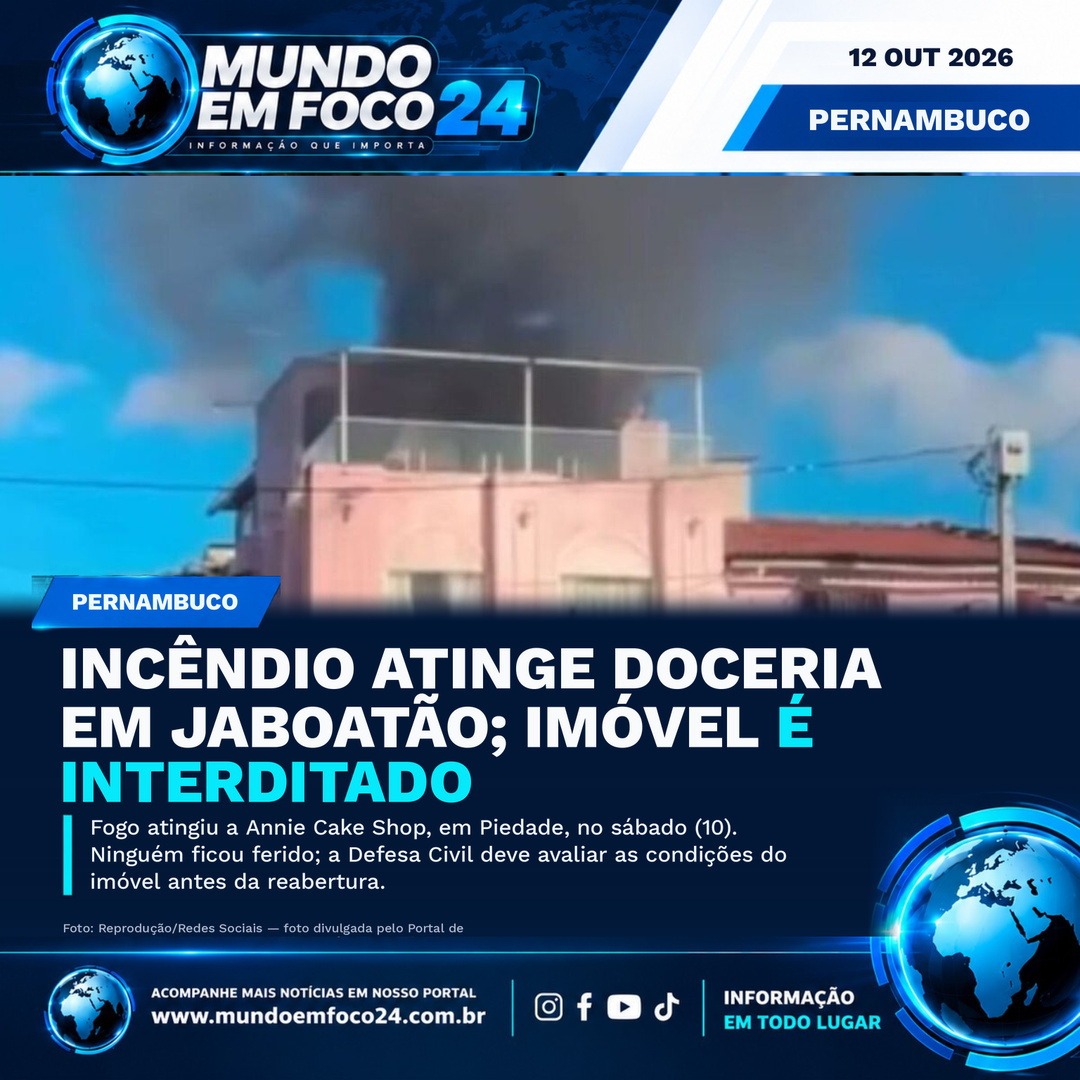
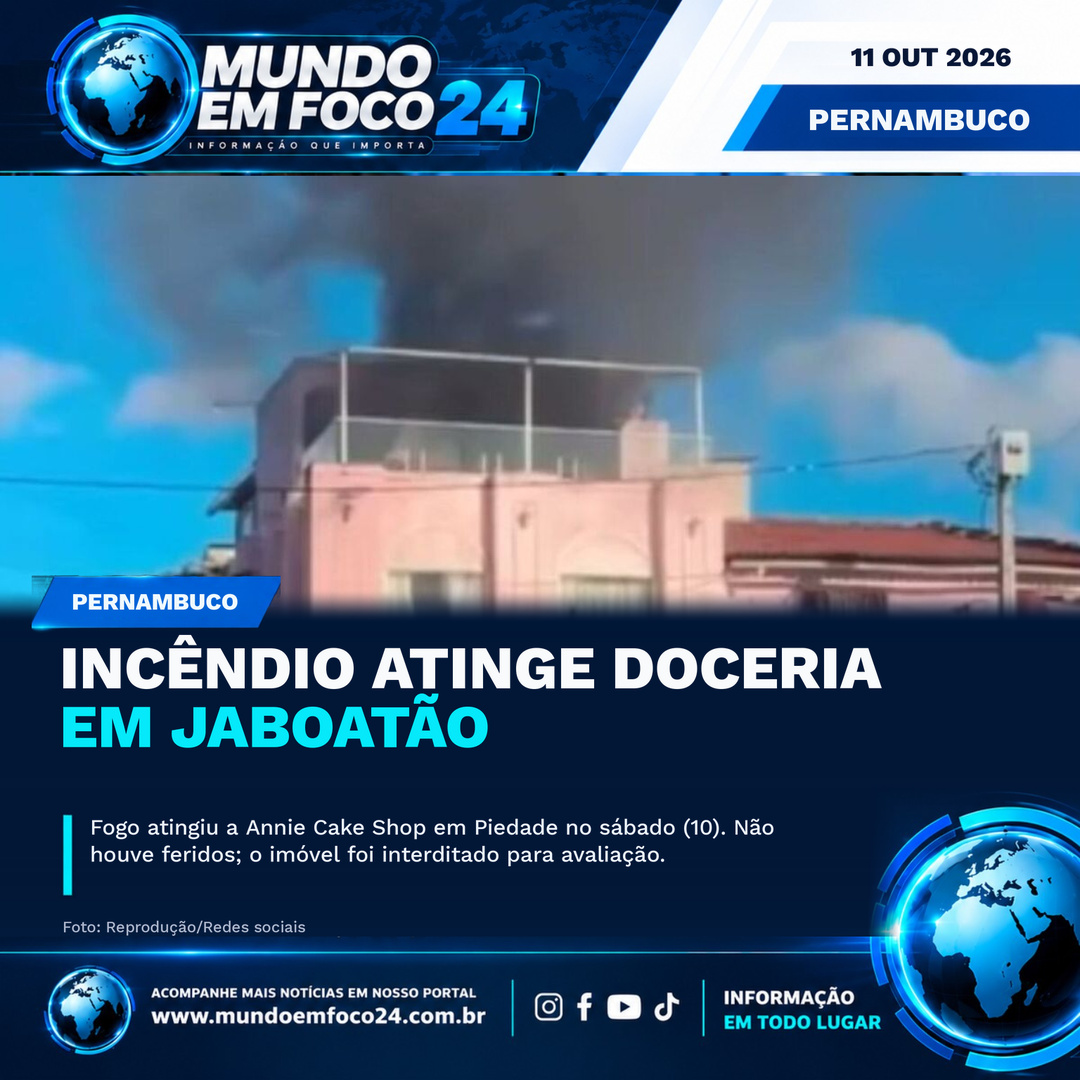
chore: publish Mundo em Foco 24 portal and branded art

Changed region(s): [[0.0611, 0.6417, 0.7639, 0.825], [0.0611, 0.8556, 0.4278, 0.8861], [0.7944, 0.0306, 0.9472, 0.0611]]

diff --git a/share/uniao-reconhece-emergencia-36-municipios-amazonas-12-10-2026.html b/share/uniao-reconhece-emergencia-36-municipios-amazonas-12-10-2026.html
@@ -1,0 +1,1 @@
+<!doctype html><html lang="pt-BR"><head><meta charset="utf-8"><meta name="viewport" content="width=device-width,initial-scale=1"><title>União reconhece emergência no Amazonas | Mundo em Foco 24</title><meta name="description" content="Reconhecimento abrange 36 municípios e permite solicitar recursos federais para enfrentar incêndios florestais."><link rel="canonical" href="https://filipemelo1994-del.github.io/Mundo-em-foco-24-m-dia-/noticia.html?id=uniao-reconhece-emergencia-36-municipios-amazonas-12-10-2026"><meta property="og:type" content="article"><meta property="og:site_name" content="Mundo em Foco 24"><meta property="og:title" content="União reconhece emergência no Amazonas"><meta property="og:description" content="Reconhecimento abrange 36 municípios e permite solicitar recursos federais para enfrentar incêndios florestais."><meta property="og:image" content="https://raw.githubusercontent.com/filipemelo1994-del/Mundo-em-foco-24-m-dia-/main/public/news-art/uniao-reconhece-emergencia-36-municipios-amazonas-12-10-2026.jpg"><meta property="og:image:alt" content="União reconhece emergência no Amazonas"><meta property="og:url" content="https://filipemelo1994-del.github.io/Mundo-em-foco-24-m-dia-/share/uniao-reconhece-emergencia-36-municipios-amazonas-12-10-2026.html"><meta name="twitter:card" content="summary_large_image"><meta name="twitter:title" content="União reconhece emergência no Amazonas"><meta name="twitter:description" content="Reconhecimento abrange 36 municípios e permite solicitar recursos federais para enfrentar incêndios florestais."><meta name="twitter:image" content="https://raw.githubusercontent.com/filipemelo1994-del/Mundo-em-foco-24-m-dia-/main/public/news-art/uniao-reconhece-emergencia-36-municipios-amazonas-12-10-2026.jpg"><meta http-equiv="refresh" content="0;url=https://filipemelo1994-del.github.io/Mundo-em-foco-24-m-dia-/noticia.html?id=uniao-reconhece-emergencia-36-municipios-amazonas-12-10-2026"><script>location.replace("https://filipemelo1994-del.github.io/Mundo-em-foco-24-m-dia-/noticia.html?id=uniao-reconhece-emergencia-36-municipios-amazonas-12-10-2026")</script></head><body><p>Abrindo matéria no Mundo em Foco 24…</p><a href="https://filipemelo1994-del.github.io/Mundo-em-foco-24-m-dia-/noticia.html?id=uniao-reconhece-emergencia-36-municipios-amazonas-12-10-2026">Continuar</a></body></html>

diff --git a/share/incendio-doceria-piedade-jaboatao-12-10-2026.html b/share/incendio-doceria-piedade-jaboatao-12-10-2026.html
@@ -1,0 +1,1 @@
+<!doctype html><html lang="pt-BR"><head><meta charset="utf-8"><meta name="viewport" content="width=device-width,initial-scale=1"><title>Incêndio atinge doceria em Jaboatão | Mundo em Foco 24</title><meta name="description" content="Fogo atingiu a Annie Cake Shop em Piedade no sábado (10). Não houve feridos; o imóvel foi interditado para avaliação."><link rel="canonical" href="https://filipemelo1994-del.github.io/Mundo-em-foco-24-m-dia-/noticia.html?id=incendio-doceria-piedade-jaboatao-12-10-2026"><meta property="og:type" content="article"><meta property="og:site_name" content="Mundo em Foco 24"><meta property="og:title" content="Incêndio atinge doceria em Jaboatão"><meta property="og:description" content="Fogo atingiu a Annie Cake Shop em Piedade no sábado (10). Não houve feridos; o imóvel foi interditado para avaliação."><meta property="og:image" content="https://raw.githubusercontent.com/filipemelo1994-del/Mundo-em-foco-24-m-dia-/main/public/news-art/incendio-doceria-piedade-jaboatao-12-10-2026.jpg"><meta property="og:image:alt" content="Incêndio atinge doceria em Jaboatão"><meta property="og:url" content="https://filipemelo1994-del.github.io/Mundo-em-foco-24-m-dia-/share/incendio-doceria-piedade-jaboatao-12-10-2026.html"><meta name="twitter:card" content="summary_large_image"><meta name="twitter:title" content="Incêndio atinge doceria em Jaboatão"><meta name="twitter:description" content="Fogo atingiu a Annie Cake Shop em Piedade no sábado (10). Não houve feridos; o imóvel foi interditado para avaliação."><meta name="twitter:image" content="https://raw.githubusercontent.com/filipemelo1994-del/Mundo-em-foco-24-m-dia-/main/public/news-art/incendio-doceria-piedade-jaboatao-12-10-2026.jpg"><meta http-equiv="refresh" content="0;url=https://filipemelo1994-del.github.io/Mundo-em-foco-24-m-dia-/noticia.html?id=incendio-doceria-piedade-jaboatao-12-10-2026"><script>location.replace("https://filipemelo1994-del.github.io/Mundo-em-foco-24-m-dia-/noticia.html?id=incendio-doceria-piedade-jaboatao-12-10-2026")</script></head><body><p>Abrindo matéria no Mundo em Foco 24…</p><a href="https://filipemelo1994-del.github.io/Mundo-em-foco-24-m-dia-/noticia.html?id=incendio-doceria-piedade-jaboatao-12-10-2026">Continuar</a></body></html>
